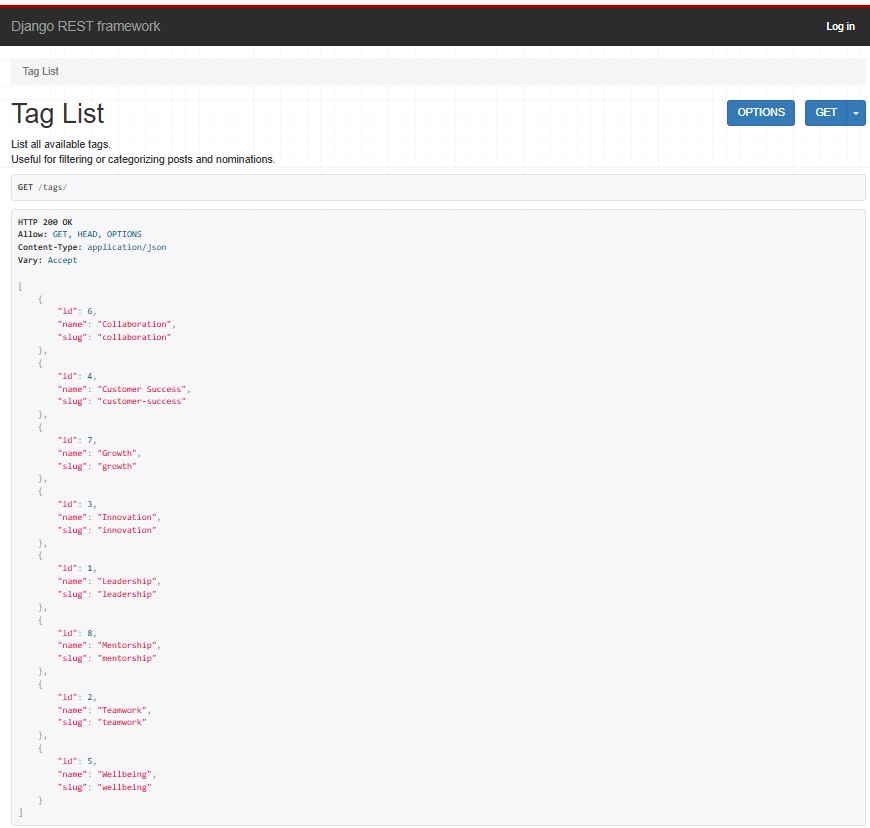
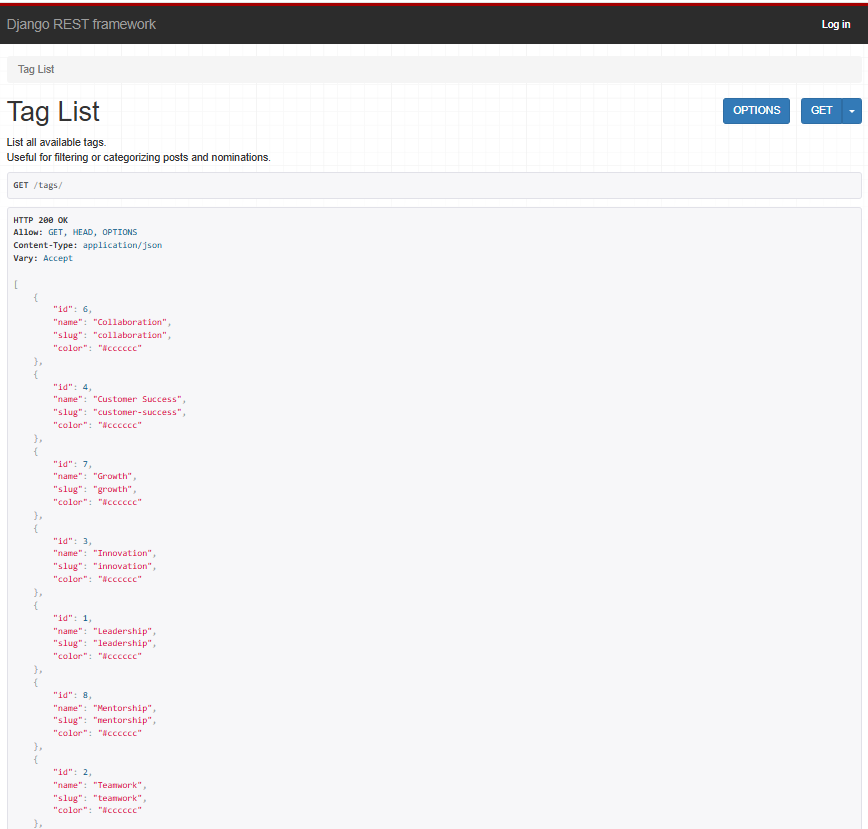
add color field to Tag model with default and API exposure

diff --git a/tags/models.py b/tags/models.py
@@ -5,10 +5,15 @@ from django.utils.text import slugify
 class Tag(models.Model):
     """
     Tag model used for categorizing recognition stories and nominations.
-    Each tag has a name and a unique slug.
+    Each tag has a name, a unique slug and a color.
     """
     name = models.CharField(max_length=50, unique=True)
     slug = models.SlugField(max_length=60, unique=True, blank=True)
+    color = models.CharField(
+        max_length=7,
+        default='#cccccc',
+        help_text='Hex code (e.g. #FF5733)'
+    )
 
     def save(self, *args, **kwargs):
         if not self.slug:

diff --git a/tags/migrations/0003_tag_color.py b/tags/migrations/0003_tag_color.py
@@ -1,0 +1,18 @@
+# Generated by Django 4.2 on 2025-04-22 15:43
+
+from django.db import migrations, models
+
+
+class Migration(migrations.Migration):
+
+    dependencies = [
+        ('tags', '0002_alter_tag_options'),
+    ]
+
+    operations = [
+        migrations.AddField(
+            model_name='tag',
+            name='color',
+            field=models.CharField(default='#cccccc', help_text='Hex code (e.g. #FF5733)', max_length=7),
+        ),
+    ]

diff --git a/tags/serializers.py b/tags/serializers.py
@@ -9,4 +9,4 @@ class TagSerializer(serializers.ModelSerializer):
     """
     class Meta:
         model = Tag
-        fields = ['id', 'name', 'slug']
+        fields = ['id', 'name', 'slug', 'color']
